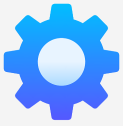
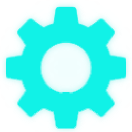
feature: 首页图标修改

diff --git a/lib/pages/home/home_view.dart b/lib/pages/home/home_view.dart
@@ -412,7 +412,12 @@ class HomePage extends StatelessWidget {
         child: Column(
           mainAxisAlignment: MainAxisAlignment.center,
           children: [
-            Image.asset(item['image'], width: 40.w, height: 40.w),
+            Image.asset(
+              item['image'],
+              width: 40.w,
+              height: 40.w,
+              fit: BoxFit.contain,
+            ),
             SizedBox(height: 8.h),
             Text(
               item['title'],
